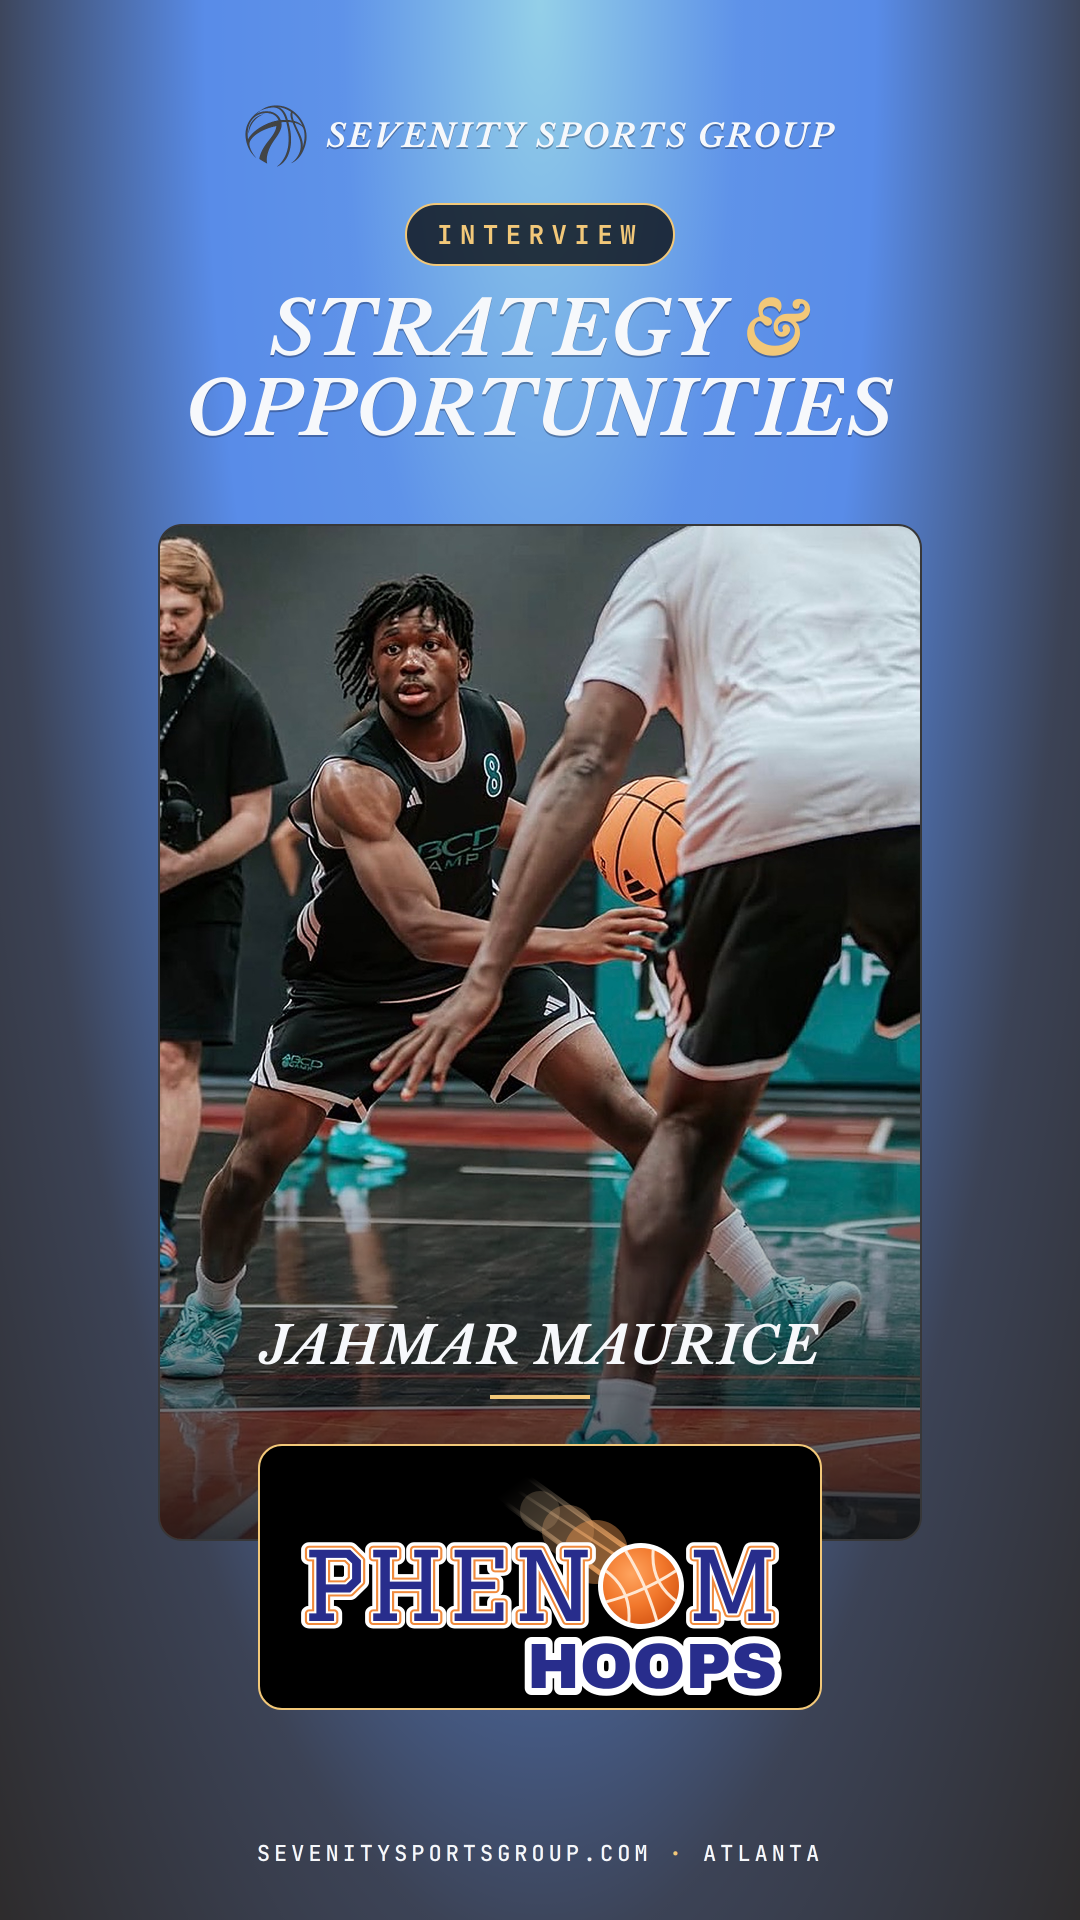
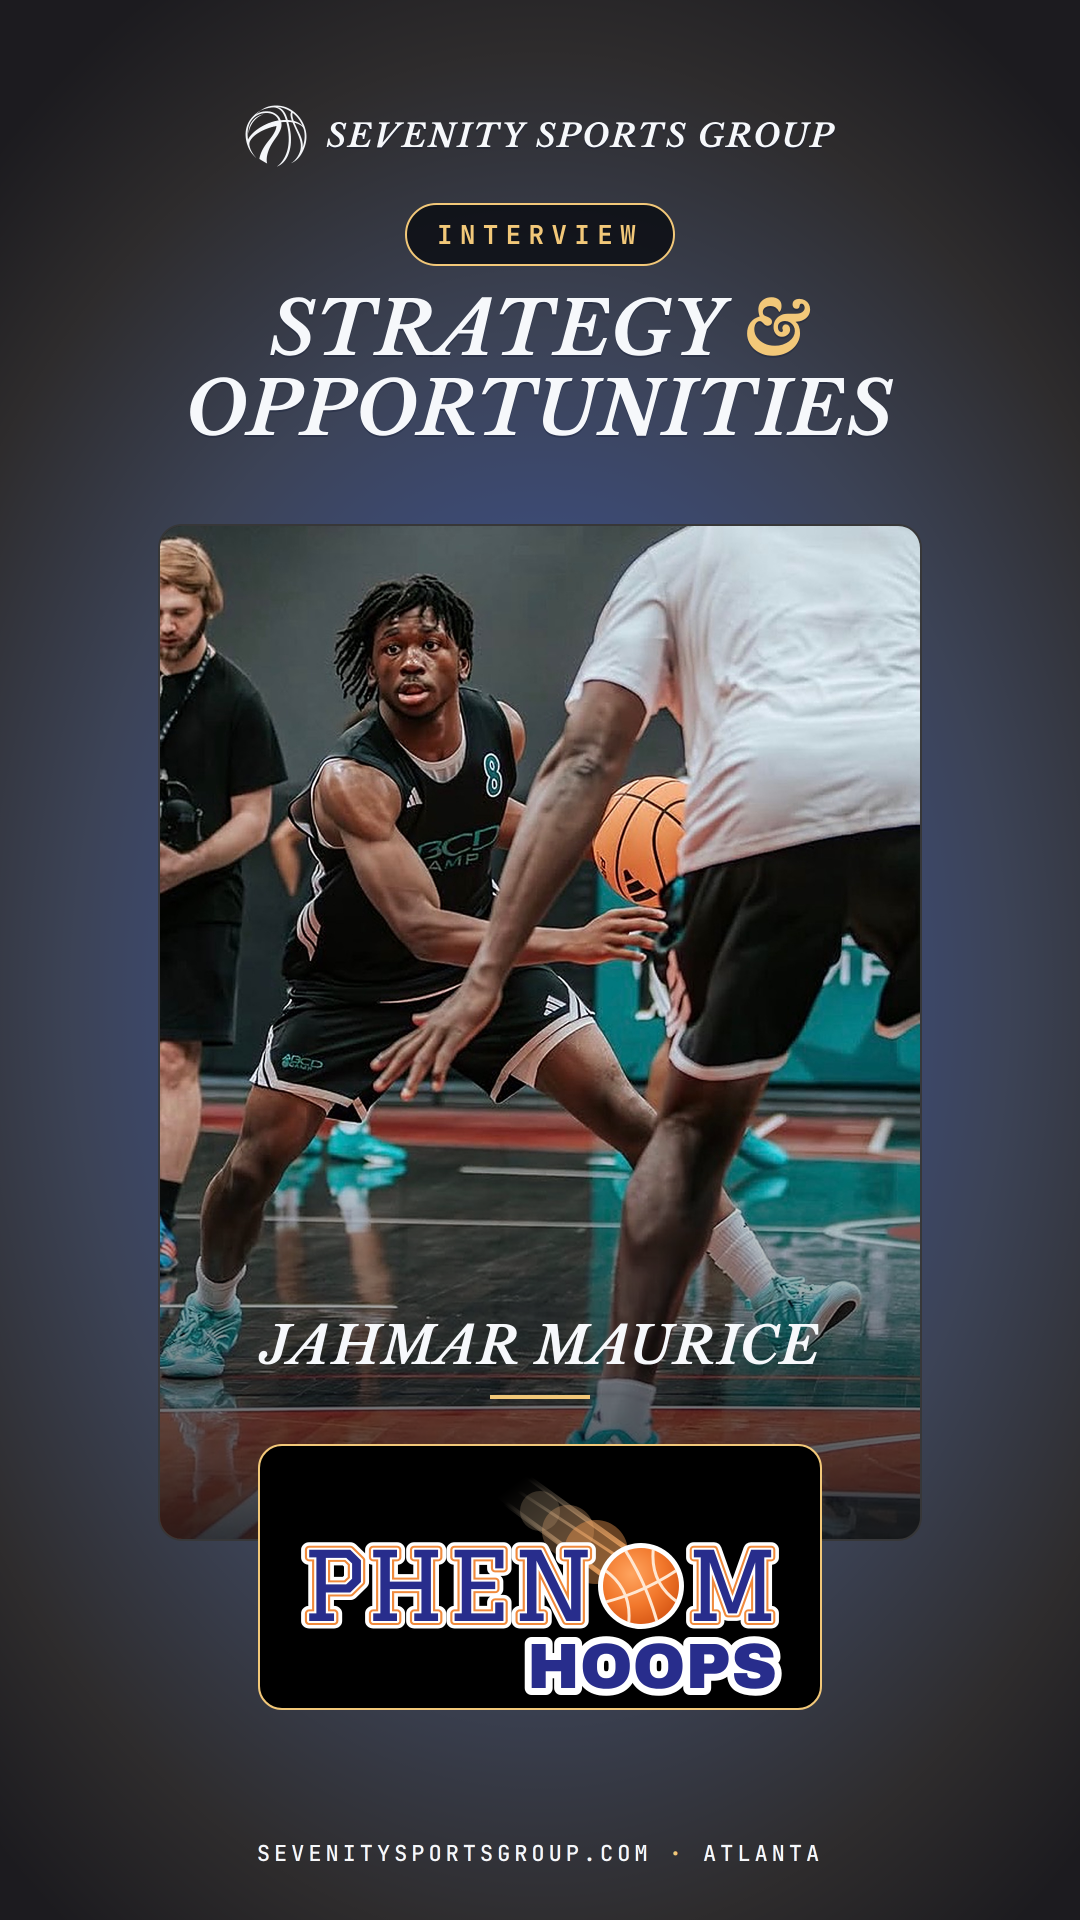
Jahmar story: dark blue-to-black background
Use the darker lower band of the site gradient (brand blue fading to
charcoal) for the whole story, and a light version of the mark so the
logo stays visible on it.

Claude-Session: https://claude.ai/code/session_0146Hdmg9cTnEAb9rGfu4epu

diff --git a/social/stories/jahmar-maurice-interview/story.html b/social/stories/jahmar-maurice-interview/story.html
@@ -19,8 +19,10 @@ body{
   width:1080px;height:1920px;overflow:hidden;position:relative;
   color:var(--ink);font-family:var(--f-serif);
   -webkit-font-smoothing:antialiased;text-rendering:geometricPrecision;
-  background-color:#2e2c2d;
-  background-image:radial-gradient(ellipse at 50% 0%, #94d0e8 0%, #5f93e9 26%, #598ce8 44%, #3c4356 72%, #2e2c2d 100%);
+  background-color:#1c1b1f;
+  /* The darker lower band of the site gradient, stretched over the whole story:
+     muted brand blue in the middle fading out to charcoal-black at the edges. */
+  background-image:radial-gradient(ellipse 75% 60% at 50% 52%, #4d68ad 0%, #3c4f86 30%, #3c4356 58%, #2e2c2d 82%, #1c1b1f 100%);
 }
 .top{position:absolute;top:104px;left:0;right:0;text-align:center;text-shadow:0 2px 0 rgba(20,30,55,.35)}
 .brand{display:inline-flex;align-items:center;gap:18px;font-style:italic;font-weight:700;font-size:32px;letter-spacing:.08em;text-transform:uppercase}
@@ -54,7 +56,7 @@ h1 .amp{color:var(--gold)}
 </head>
 <body>
   <div class="top">
-    <div class="brand"><img src="mark.png" alt="">Sevenity Sports Group</div>
+    <div class="brand"><img src="mark-light.png" alt="">Sevenity Sports Group</div>
     <div><span class="tag">Interview</span></div>
     <h1>Strategy <span class="amp">&amp;</span> Opportunities</h1>
   </div>
